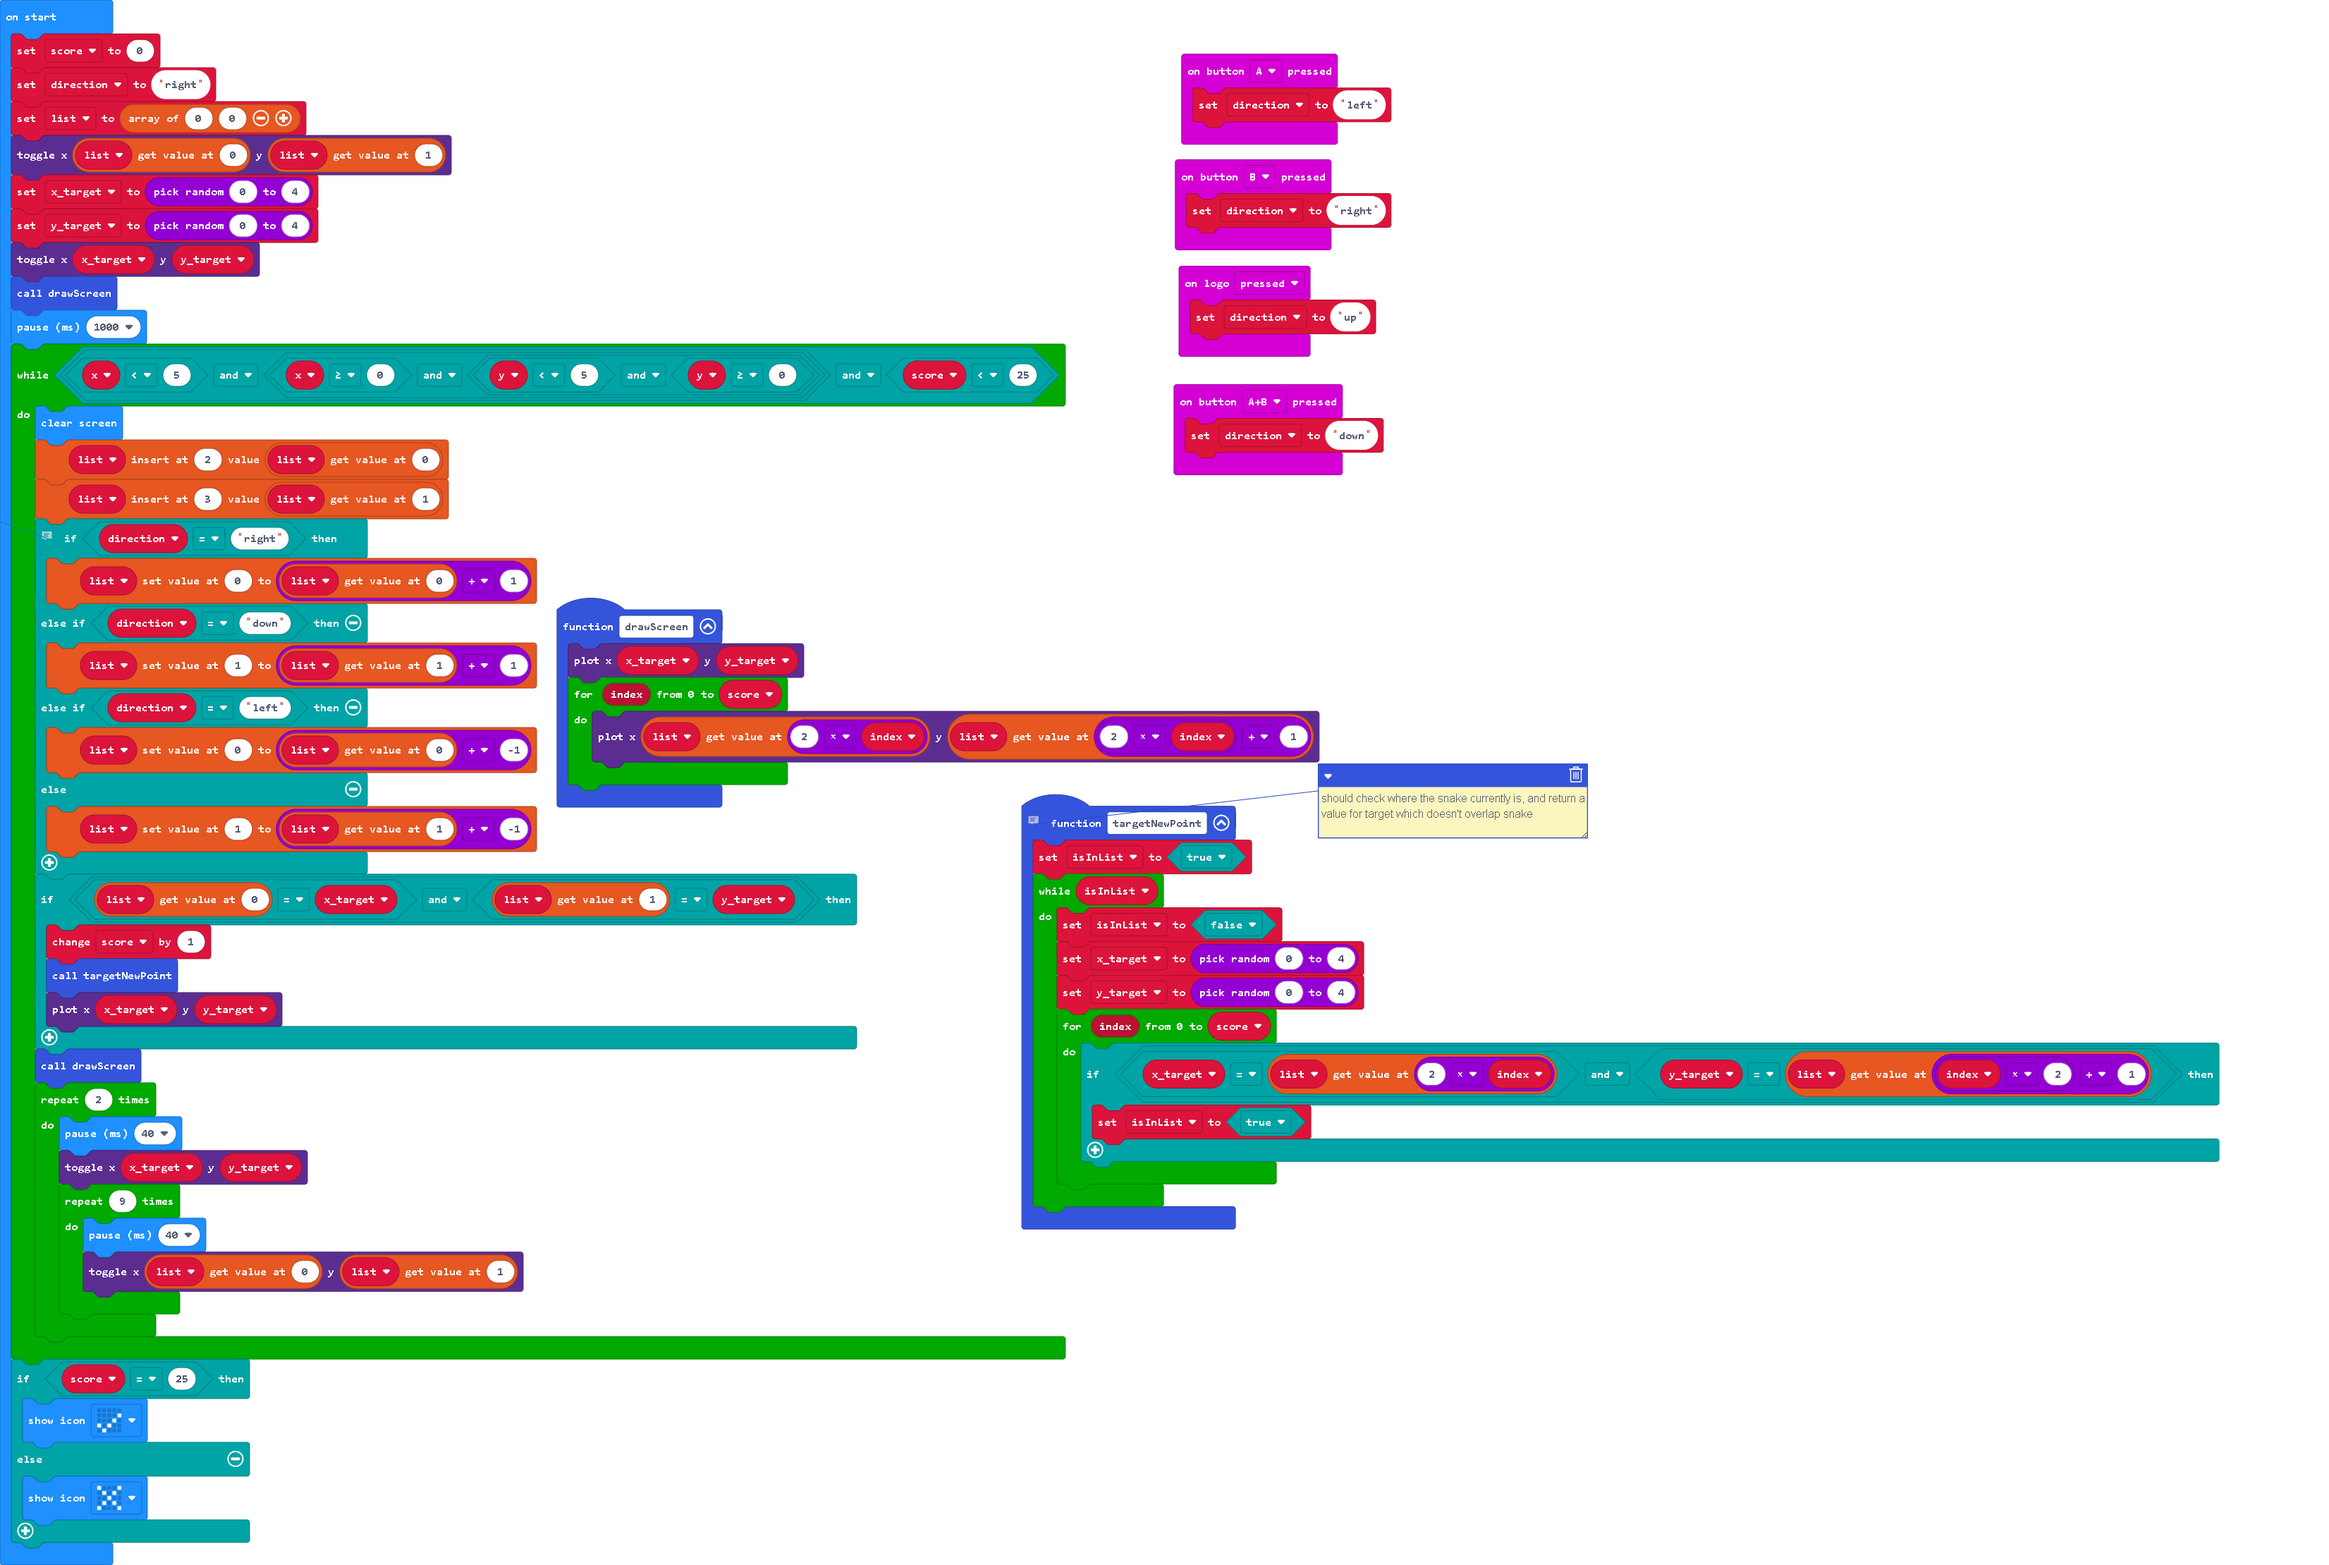
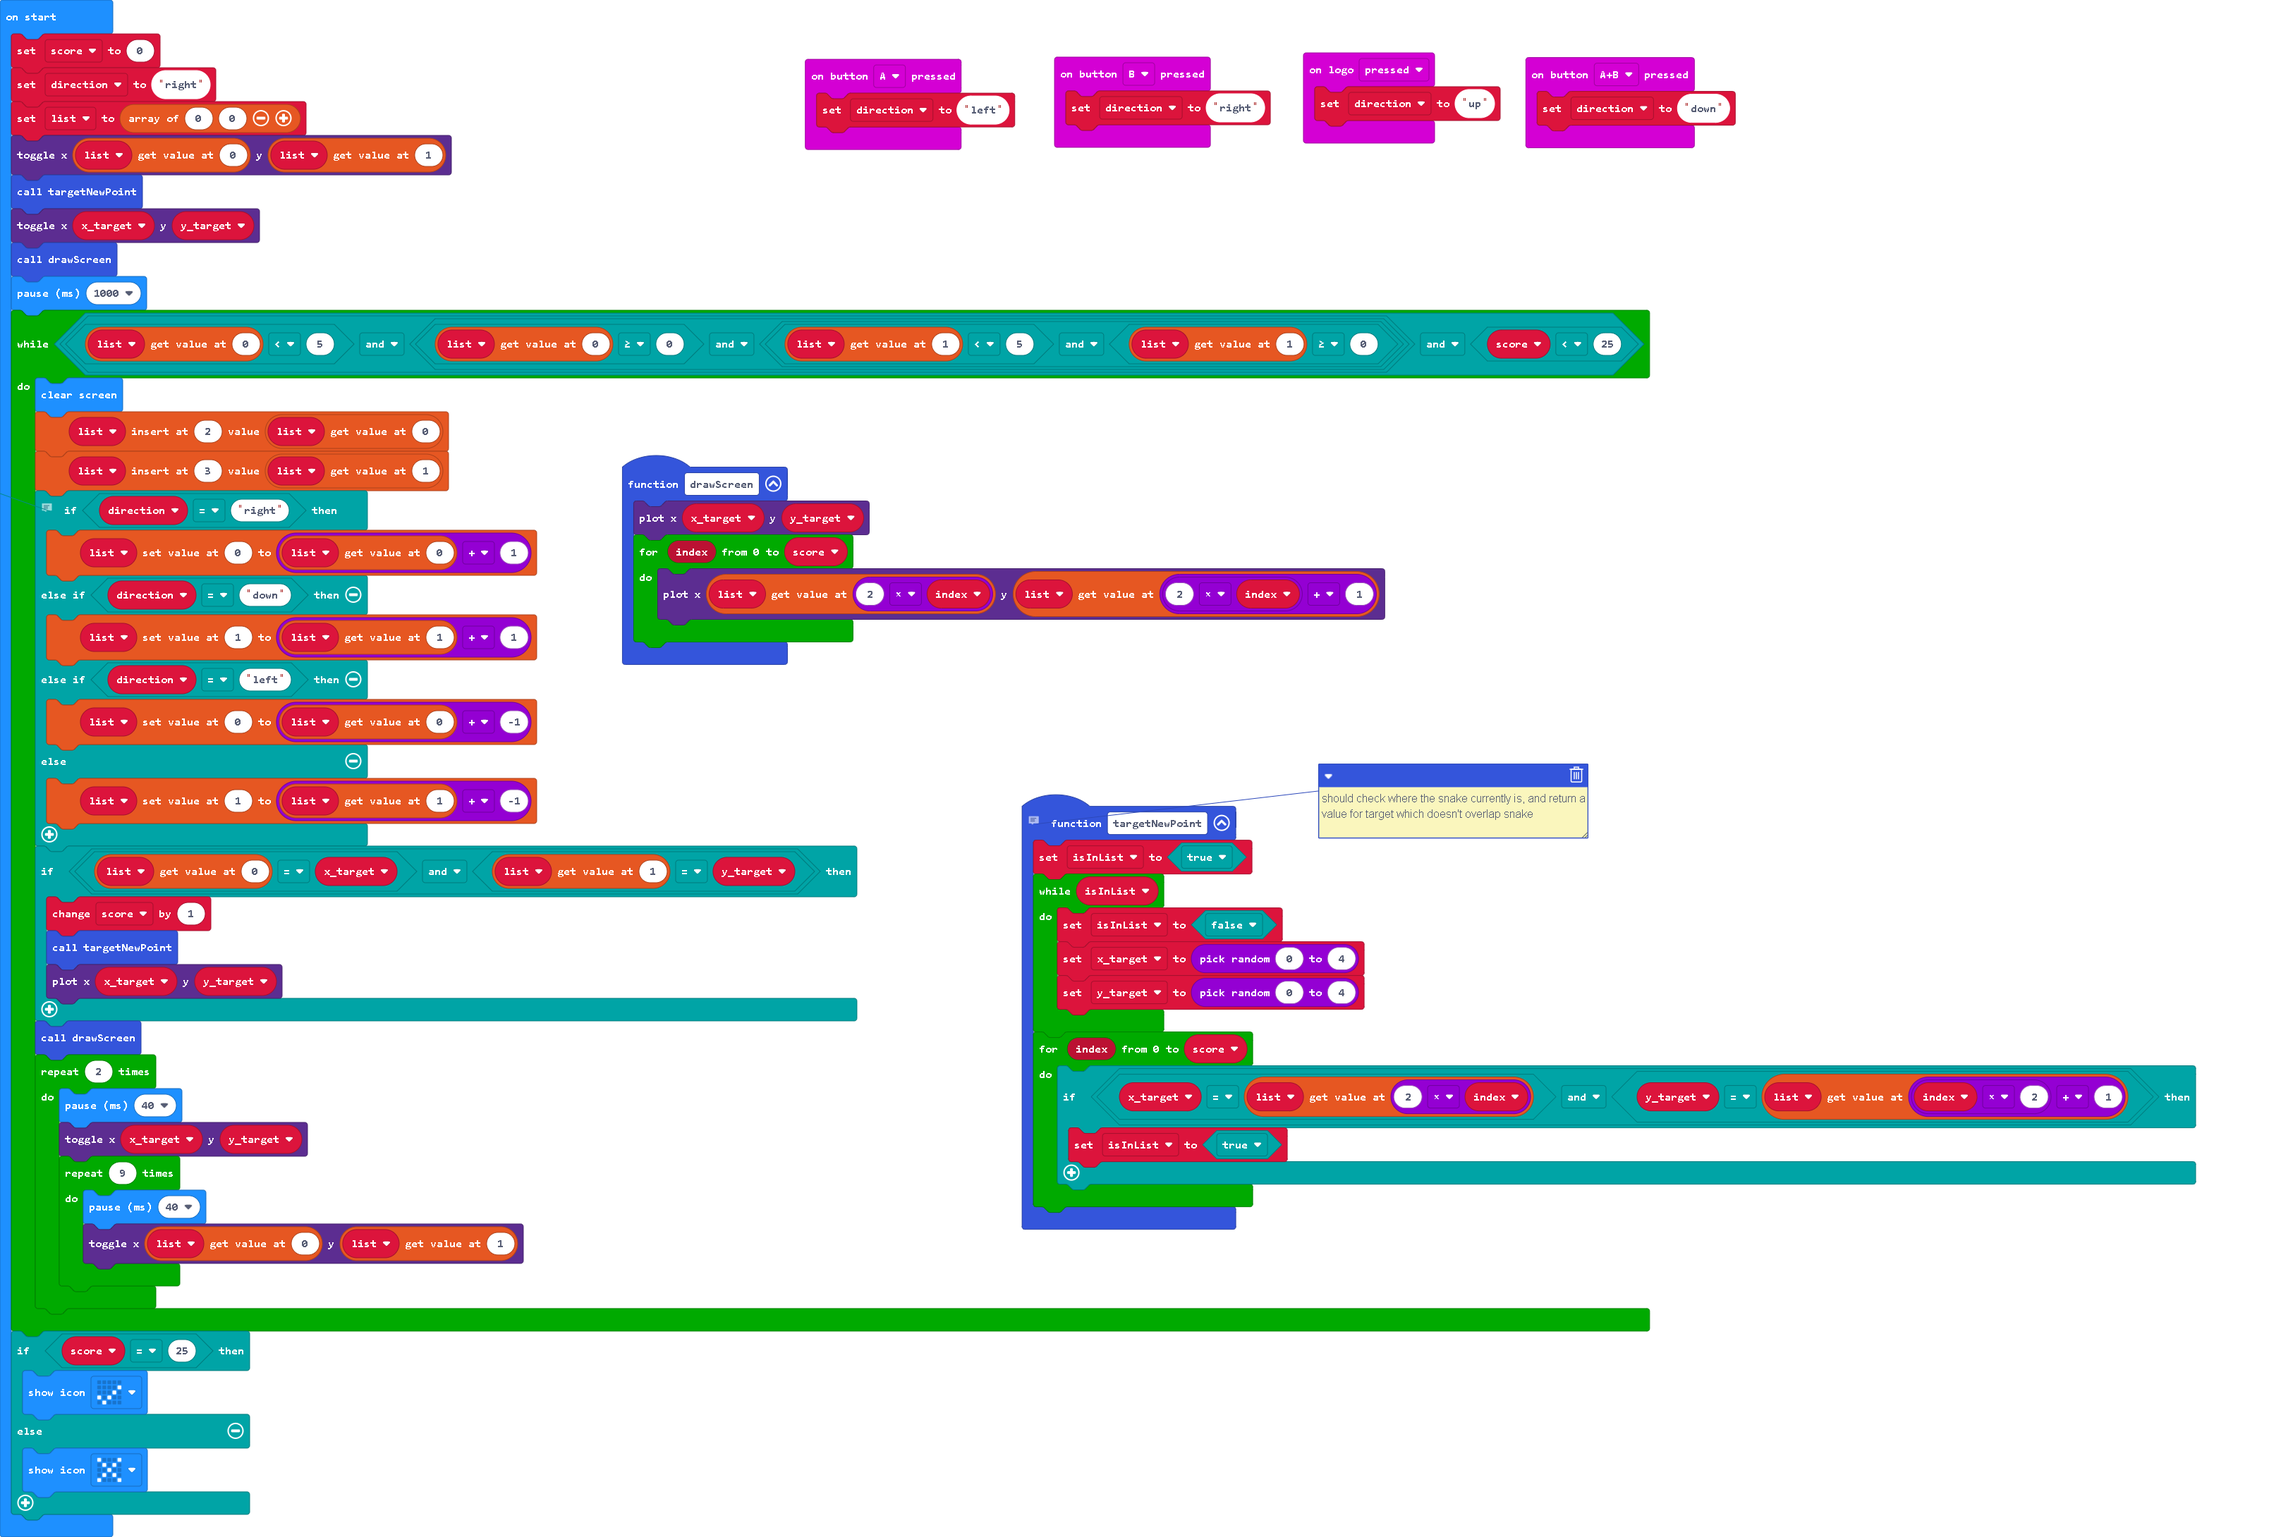
finalized v4 with cleanups.

Changed region(s): [[0.0, 0.0, 0.9947, 0.967]]

diff --git a/main.ts b/main.ts
@@ -5,10 +5,10 @@ function targetNewPoint () {
         isInList = false
         x_target = randint(0, 4)
         y_target = randint(0, 4)
-        for (let index = 0; index <= score; index++) {
-            if (x_target == list[2 * index] && y_target == list[index * 2 + 1]) {
-                isInList = true
-            }
+    }
+    for (let index = 0; index <= score; index++) {
+        if (x_target == list[2 * index] && y_target == list[index * 2 + 1]) {
+            isInList = true
         }
     }
 }
@@ -31,8 +31,6 @@ function drawScreen () {
     }
 }
 let isInList = false
-let y = 0
-let x = 0
 let y_target = 0
 let x_target = 0
 let list: number[] = []
@@ -42,12 +40,11 @@ score = 0
 direction = "right"
 list = [0, 0]
 led.toggle(list[0], list[1])
-x_target = randint(0, 4)
-y_target = randint(0, 4)
+targetNewPoint()
 led.toggle(x_target, y_target)
 drawScreen()
 basic.pause(1000)
-while (x < 5 && (x >= 0 && (y < 5 && y >= 0)) && score < 25) {
+while (list[0] < 5 && (list[0] >= 0 && (list[1] < 5 && list[1] >= 0)) && score < 25) {
     basic.clearScreen()
     list.insertAt(2, list[0])
     list.insertAt(3, list[1])
